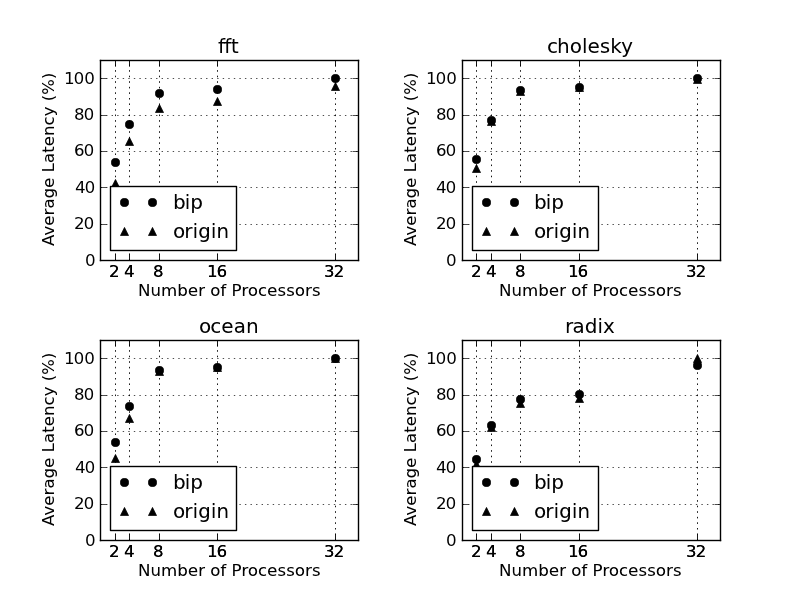
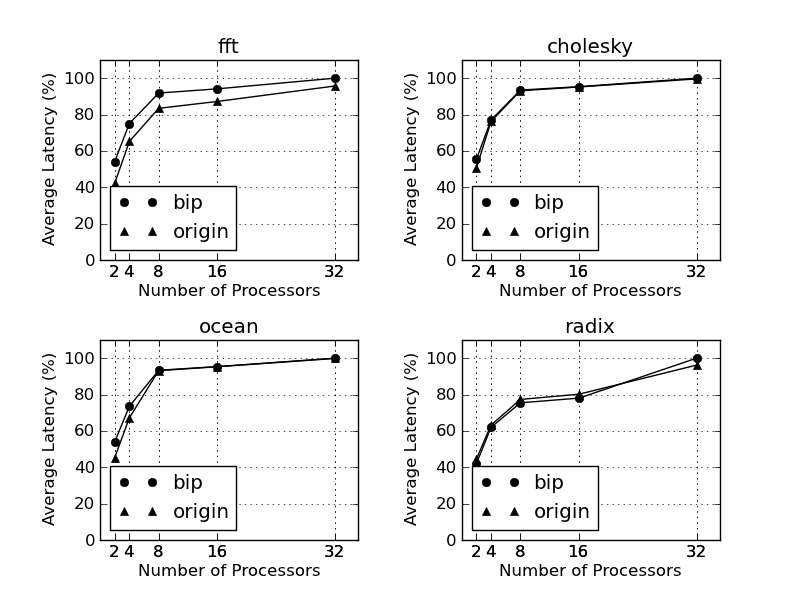
updated report and generateplots.py

diff --git a/WorkingFolder/scripts/generateplots.py b/WorkingFolder/scripts/generateplots.py
@@ -3,6 +3,7 @@ import os
 import sys
 
 from matplotlib.pyplot import *
+#from mpl_toolkits.axes_grid1 import ImageGrid
 
 # need to change this when moving this script
 IN_DIR='../results/'
@@ -22,6 +23,7 @@ IN_EXT='.memDevResults'
 LINESTYLES=['ko','k^']
 #LINESTYLES=['k*','kD']
 #LINESTYLES=['kp','kd']
+LINESTYLE_SOLID='k-'
 OUT_EXT='.png'
 
 thisFileName = sys.argv[0]
@@ -178,11 +180,14 @@ def plotCpuMultiple(benchmarks, dirtypes, minimum, maximum, component, key, myYl
     remainder = benchmarkLength % GRAPH_WIDTH
     if (remainder > 0):
         row += 1
-    figureIndex = 1
     figureIndexPrefix = str(row) + str(GRAPH_WIDTH)
+
+    #myFigure = figure(1)
+    #myGrid = ImageGrid(myFigure, 111, nrows_ncols = (row, GRAPH_WIDTH), axes_pad=0.1)
     subplots_adjust(hspace=0.4)
     subplots_adjust(wspace=0.4)
 
+    figureIndex = 1
     for benchmark in benchmarks:
         myTitle = benchmark
         tempBenchmarks = [benchmark]
@@ -224,24 +229,51 @@ def plotGraph(dirtypes, graphResults, minimum, maximum, myXlabel, myYlabel, myTi
     linestyleIndex = 0
     linestyle = LINESTYLES[linestyleIndex]
     ticks = []
-    for dirtype in dirtypes:
-        iSources = graphResults[dirtype]
-        i = minInt
-        xValues = []
-        yValues = []
-        while (i <= maxInt):
-            x = i
-            y = iSources[i]
-            xValues.append(x)
-            yValues.append(y)
-            ticks.append(i)
-            i *= 2
-        plot(xValues, yValues, linestyle, label=dirtype)
-        # change line style
-        linestyleIndex += 1
-        if (linestyleIndex >= len(LINESTYLES)):
-            linestyleIndex = 0
-        linestyle = LINESTYLES[linestyleIndex]
+    if (myTitle!='radix'):
+        for dirtype in dirtypes:
+            iSources = graphResults[dirtype]
+            i = minInt
+            xValues = []
+            yValues = []
+            while (i <= maxInt):
+                x = i
+                y = iSources[i]
+                xValues.append(x)
+                yValues.append(y)
+                ticks.append(i)
+                i *= 2
+            plot(xValues, yValues, linestyle, label=dirtype)
+            plot(xValues, yValues, LINESTYLE_SOLID)
+            # change line style
+            linestyleIndex += 1
+            if (linestyleIndex >= len(LINESTYLES)):
+                linestyleIndex = 0
+            linestyle = LINESTYLES[linestyleIndex]
+    else:
+        directoryIndex = len(dirtypes)-1
+        while (directoryIndex >= 0):
+            dirtype = dirtypes[directoryIndex]
+            iSources = graphResults[dirtype]
+            i = minInt
+            xValues = []
+            yValues = []
+            while (i <= maxInt):
+                x = i
+                y = iSources[i]
+                xValues.append(x)
+                yValues.append(y)
+                ticks.append(i)
+                i *= 2
+            specialDirtypeIndex = ~directoryIndex
+            plot(xValues, yValues, linestyle, label=dirtypes[specialDirtypeIndex])
+            plot(xValues, yValues, LINESTYLE_SOLID)
+            # change line style
+            linestyleIndex += 1
+            if (linestyleIndex >= len(LINESTYLES)):
+                linestyleIndex = 0
+            linestyle = LINESTYLES[linestyleIndex]
+            directoryIndex -= 1
+
     legend(loc='best')
     xlabel(myXlabel)
     ylabel(myYlabel)
@@ -249,7 +281,6 @@ def plotGraph(dirtypes, graphResults, minimum, maximum, myXlabel, myYlabel, myTi
     grid(True)
     title(myTitle)
     axis([0, maxInt*1.1, 0, 110])
-    #show()
 
 def plotL1(benchmarks, dirtypes, minimum, maximum, component, key):
     myXlabel='L1 Cache Size in Kilobytes'
